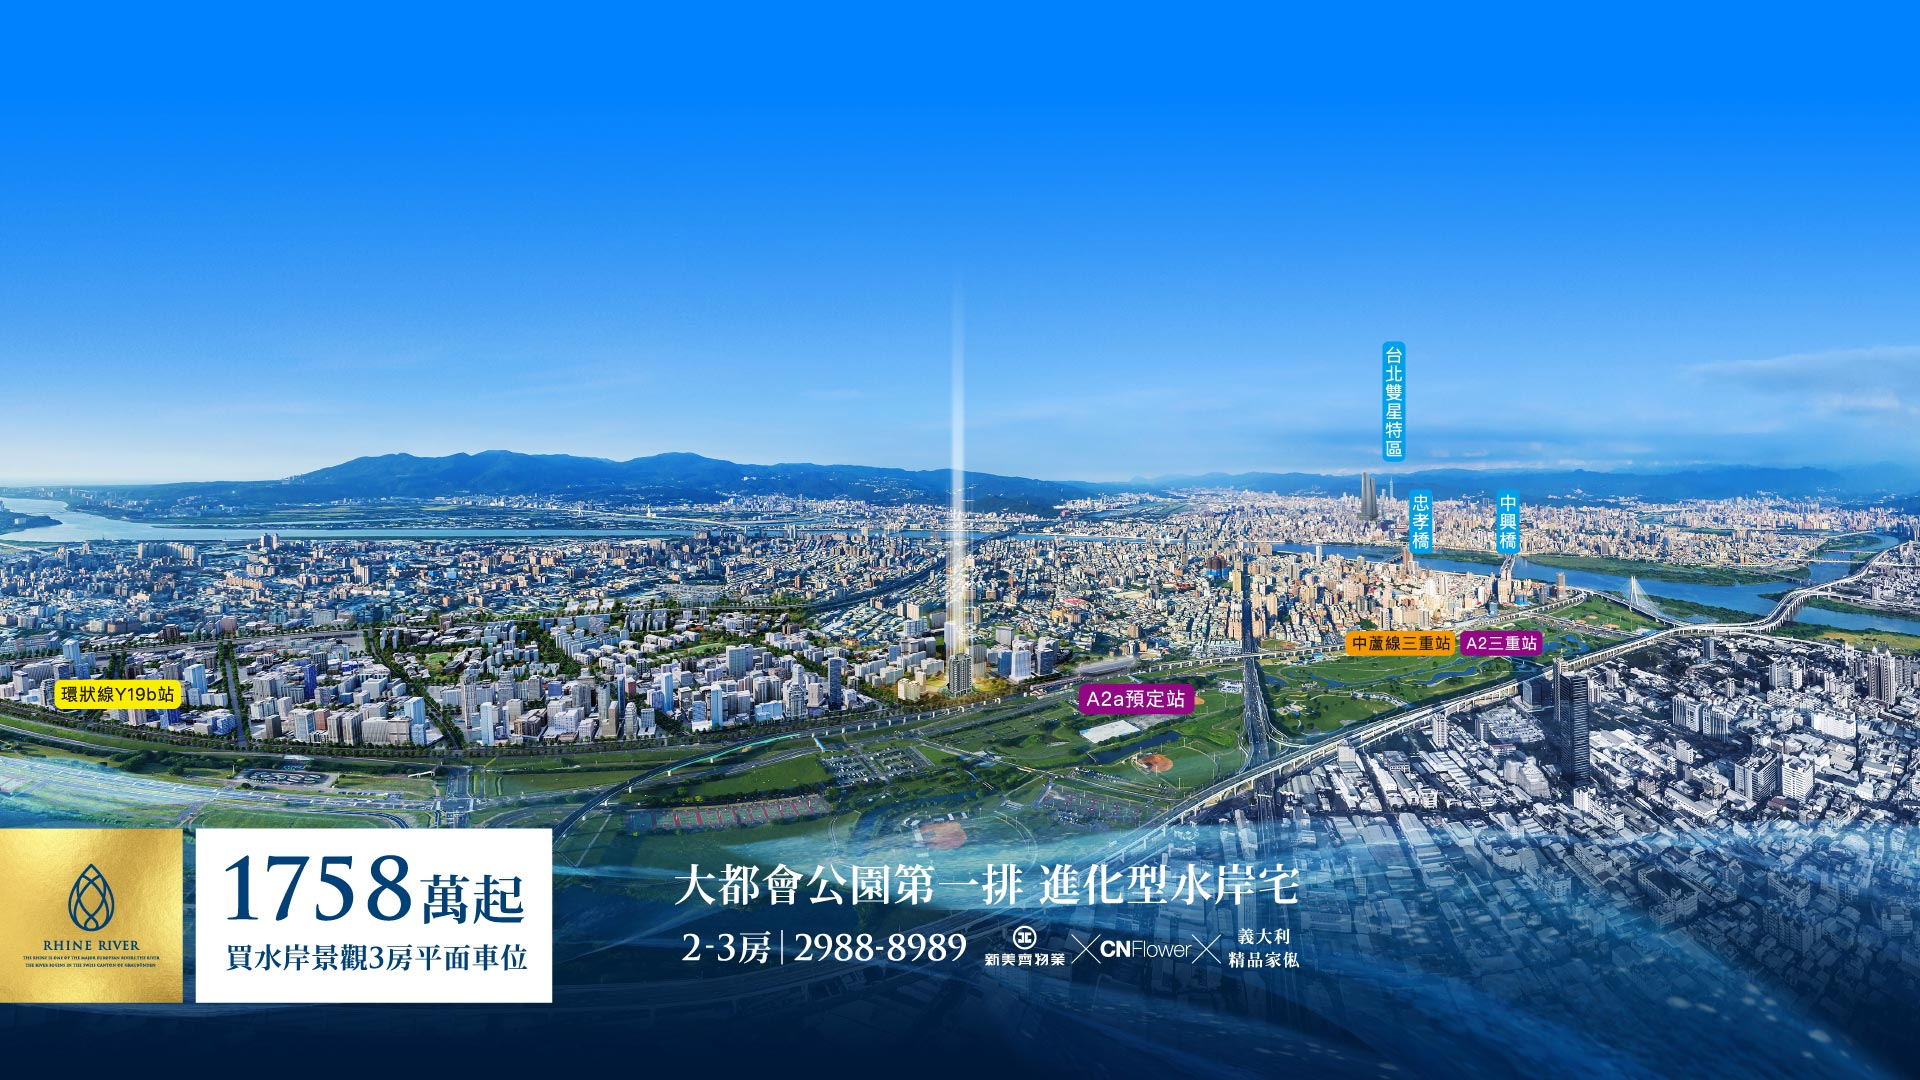
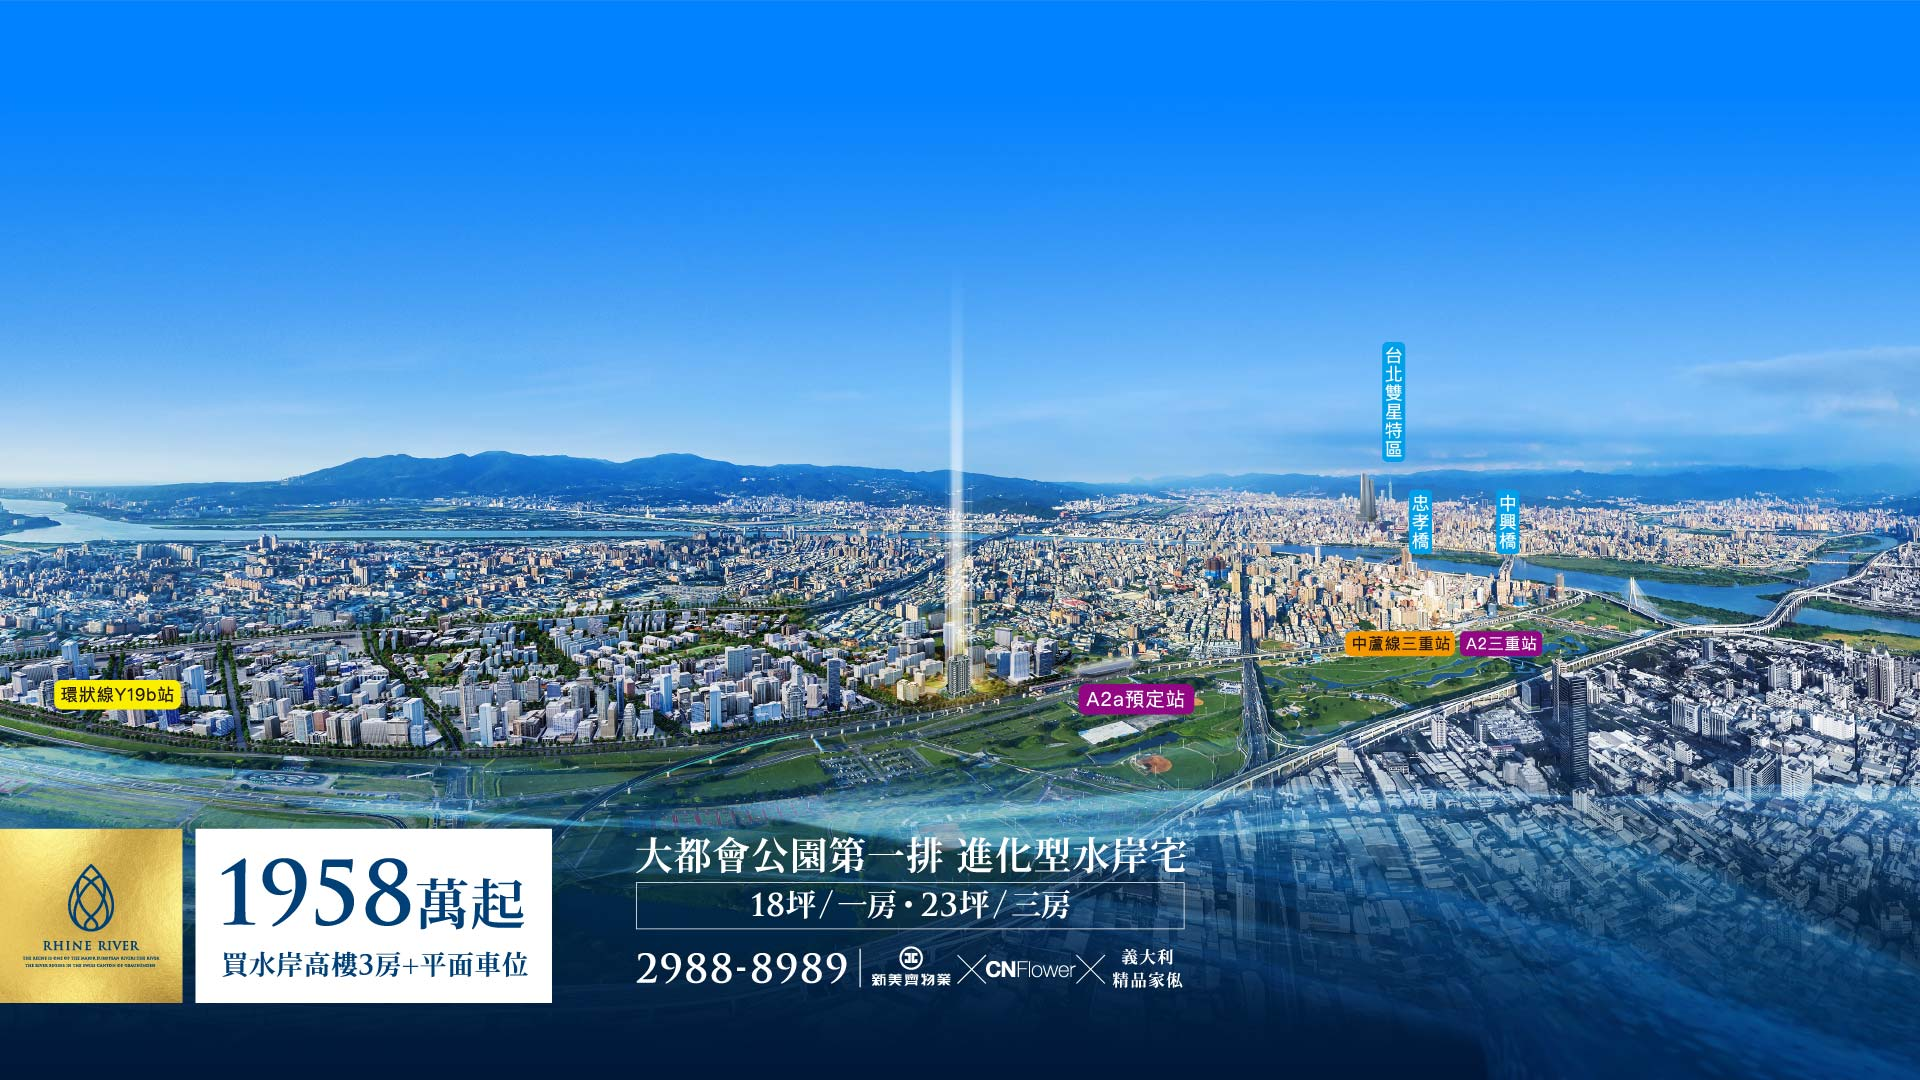
更新主視覺

Changed region(s): [[0.0, 0.4278, 1.0, 1.0], [0.7188, 0.3361, 0.75, 0.4278]]

diff --git a/src/projects/lishu2/S13.vue b/src/projects/lishu2/S13.vue
@@ -148,15 +148,15 @@
     // --------------------------------
     .titleBox
       justify-content: flex-end
-      padding: 0 3.65vw 6vw 0
+      padding: 0 3.65vw 4.85vw 0
       align-items: stretch
 
     .titleBox_info
       display: flex
       z-index: 2
     .apoint
-      height: 5.1vw
-      width: 27.2em
+      height: 7.6vw
+      width: 31.2em
     .title_box_img2
       width: 8.5vw
 
